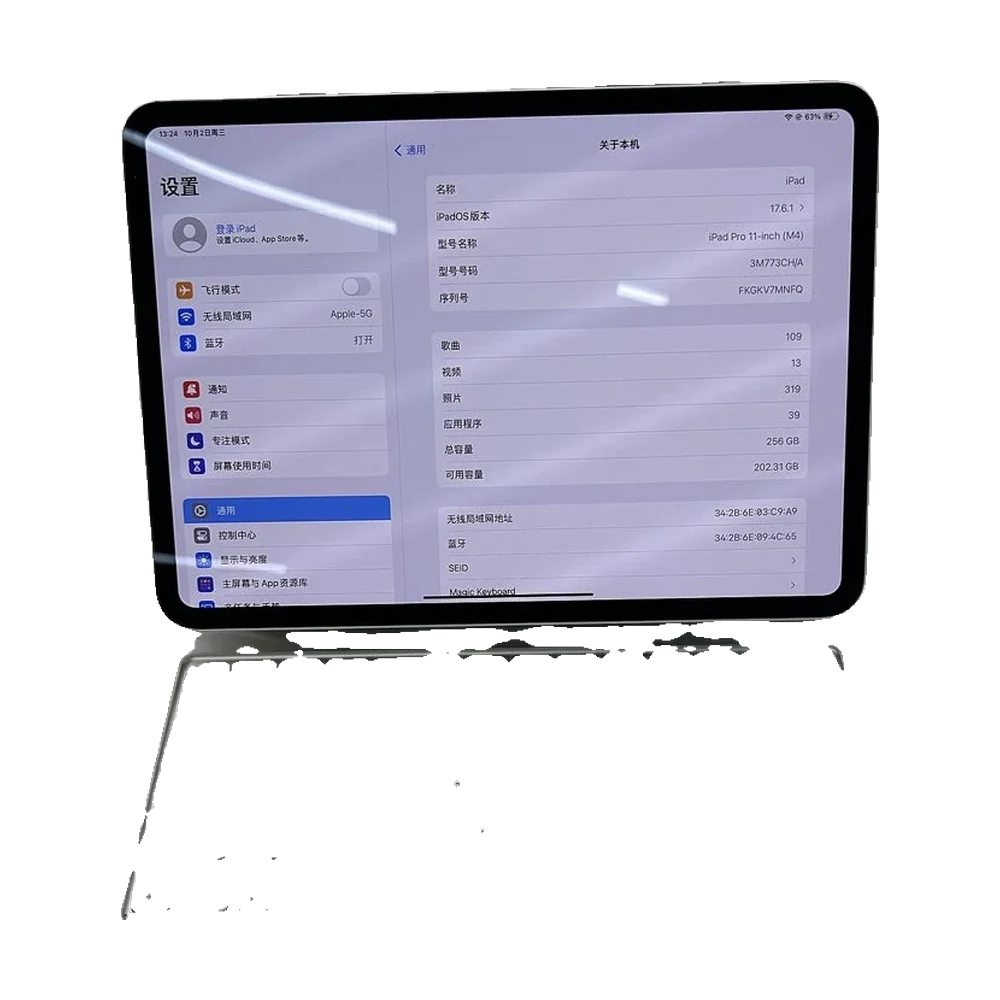
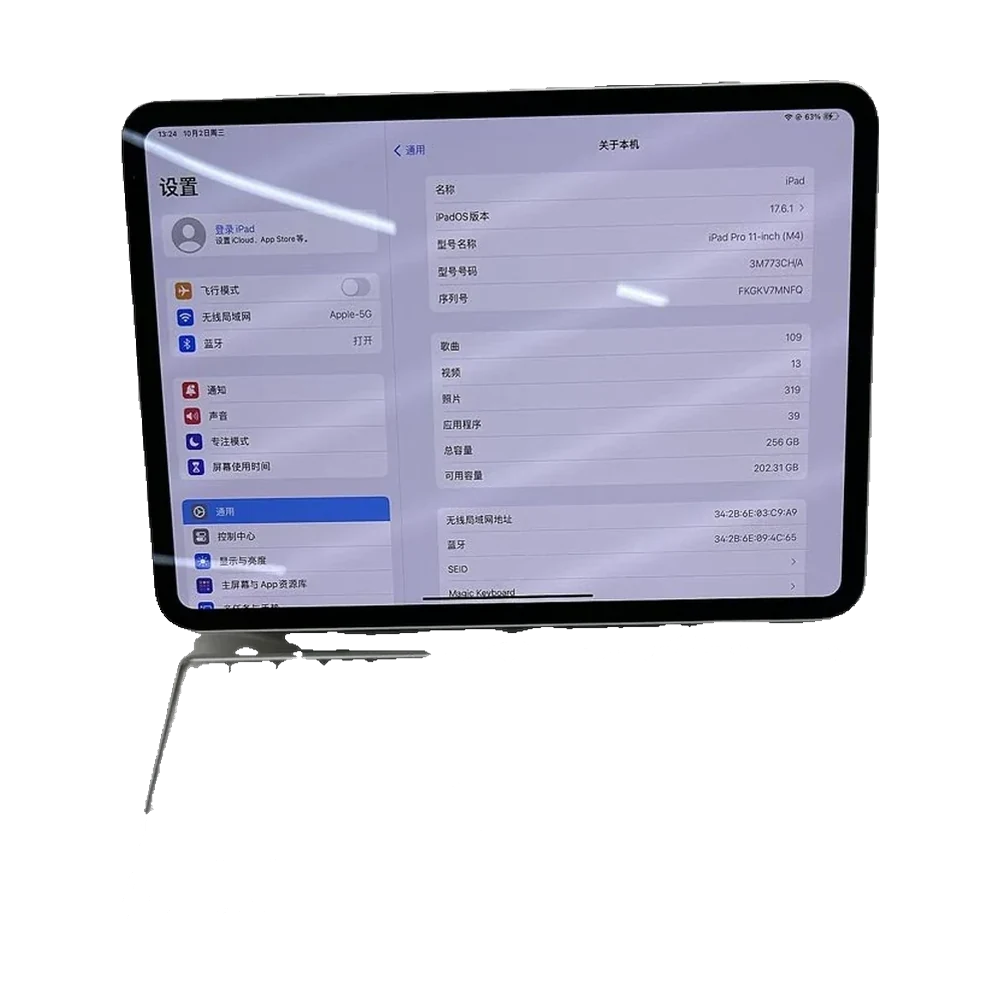
Show whole products in every card instead of cropping them
The New launches cards filled a wide 3:2 frame with object-cover, but most device photos
are tall portraits, so phones were cut down to the middle of their backs and the Pixel
and Galaxy were clipped. All cards now fit the whole product inside a square frame
(object-contain), using the background-removed cut-outs.

Cut-out cleanup: stray fragments smaller than 4% of the product (cables, specks) are
removed from 27 cut-outs. The MacBook Pro 16-inch cut-out lost its silver body against a
white table, so it is rejected and the product shows its original photo instead.

diff --git a/src/components/product/ProductCard.jsx b/src/components/product/ProductCard.jsx
@@ -12,7 +12,7 @@ import { categoryBySlug } from "@/lib/catalog";
 import { money, numberCompact, percentOff } from "@/lib/format";
 import DealCountdown from "./DealCountdown";
 
-// variant "photo" shows a lifestyle photograph edge to edge (new launches); the default shows a cut-out on the image well
+// variant "photo" is the larger card used for new launches (bigger price and cart button)
 export default function ProductCard({ product, priority = false, showStore = false, variant }) {
   const photo = variant === "photo";
   const { add } = useCart();
@@ -25,8 +25,9 @@ export default function ProductCard({ product, priority = false, showStore = fal
   const saved = wishlist.has(product.id);
   const soldOut = product.stock <= 0;
   const needsSize = product.sizes?.length > 0;
-  // Photo cards prefer the original photograph over a background-removed cut-out
-  const image = photo ? product.images.find((src) => !src.endsWith(".webp")) || product.images[0] : product.images[0];
+  // Always the whole product, fitted in the frame (cut-outs lead each gallery). Filling a wide
+  // frame with portrait photos cropped phones to their middle, so no variant crops any more.
+  const image = product.images[0];
 
   const quickAdd = () => {
     // Sized items need a size choice, so send the shopper to the product page
@@ -42,7 +43,7 @@ export default function ProductCard({ product, priority = false, showStore = fal
 
   return (
     <article className="group relative flex flex-col bg-panel border border-border rounded-lg overflow-hidden transition-colors duration-200 hover:border-border-strong">
-      <div className={`relative bg-media overflow-hidden ${photo ? "aspect-[3/2] m-2.5 mb-0 rounded-md" : "aspect-square"}`}>
+      <div className="relative aspect-square bg-media overflow-hidden">
         <Link href={`/product/${product.id}`} aria-label={product.name} className="relative block w-full h-full">
           <Image
             src={image}
@@ -50,7 +51,7 @@ export default function ProductCard({ product, priority = false, showStore = fal
             fill
             sizes="(max-width: 768px) 50vw, (max-width: 1280px) 25vw, 20vw"
             priority={priority}
-            className={`transition-transform duration-500 ease-out group-hover:scale-[1.04] ${photo ? "object-cover" : "object-contain p-5 blend-media"}`}
+            className="object-contain p-5 blend-media transition-transform duration-500 ease-out group-hover:scale-[1.04]"
           />
         </Link>
         <div className="absolute top-2.5 left-2.5 flex flex-col items-start gap-1">
